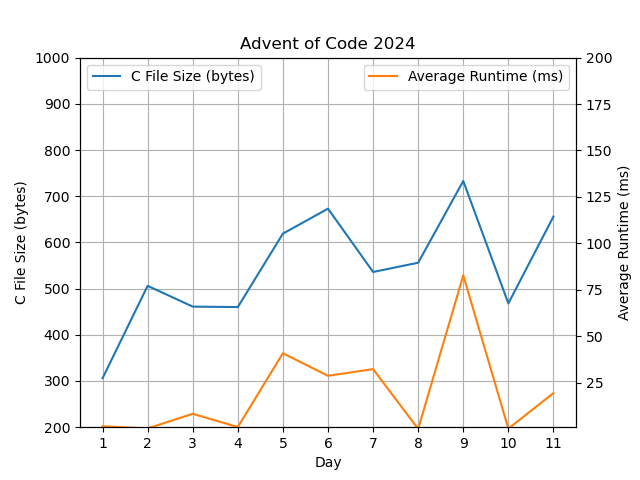
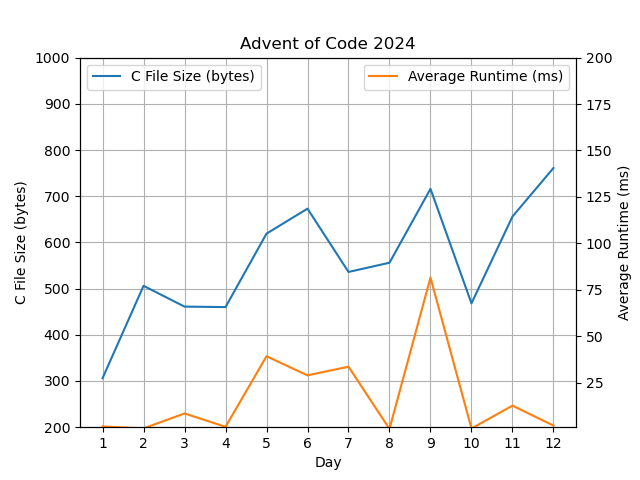
tentative d12

diff --git a/d12.c b/d12.c
@@ -1,0 +1,15 @@
+#include"a.h" // 1381056, 834828
+#define P 140
+#define QPUSH(x,y) q[qt][0] = x; q[qt++][1] = y
+#define Fs(a,b) \
+  !Fany(j,0,s, k1[j] == y - a && k2[j] == z - b && k3[j] == x)
+C a[P][P], v[P][P]; I p1, p2; M(T q[P*2][2]; Fp f = fget("d12.txt");
+  Fi(P, Fj(P, a[i][j] = getc(f)) getc(f)) I k1[2*P], k2[2*P], k3[2*P];
+  I qh, qt, p, s; F2d(P, I(!v[i][j], qh=qt=p=s=0; QPUSH(i,j);
+    v[i][j] = 1; W(qh < qt, I ui=q[qh][0],uj=q[qh++][1]; Fx(4,
+      I y = ui + dir4cw[x][0], z = uj + dir4cw[x][1];
+      I(!CR0(y,P)||!CR0(z,P) || a[y][z] != a[ui][uj], p++;
+        I(Fs(0,0), k1[s]=y,k2[s]=z,k3[s++]=x))
+      J(!v[y][z], v[y][z] = 1; QPUSH(y,z))))
+    p2 += qh * Fisum(s,0, I y=k1[i],z=k2[i],x=k3[i];
+      x % 2 ? Fs(1,0) : Fs(0,1)); p1 += qh * p)) resi(p1, p2))

diff --git a/d09.c b/d09.c
@@ -1,9 +1,9 @@
 #include "a.h" // 6344673854800 6360363199987
 #define P 19999
 #define U I(e[++j], B) /* Manual Unroll */
-V p2(T * e, I sz)_(Fid(sz, I(e[i] && i, I n = e[i], need = 1;
+V p2(T * e, I sz)_(Fid(sz, I(e[i] && i, I n = e[i], need = 1, has;
   W (e[--i] == n && i, need++); Fj(i, I(!e[j],
-    I has = j; W(1, U U U U) I(need <= j - has,
+    has = j; W(1, U U U U) I(need <= j - has,
       F$(j = has - 1, need--, e[i] = 0, e[++j] = e[++i]) B))) i++)))
 V p1(T * e, I sz)_(I j = --sz; Fi(j, I(!e[i], W(!e[j--]) SWAP(e[i], e[j+1]))))
 M(C * c = slurp("d09.txt"); I ns = Fisum(P, 0, c[i] - '0');
